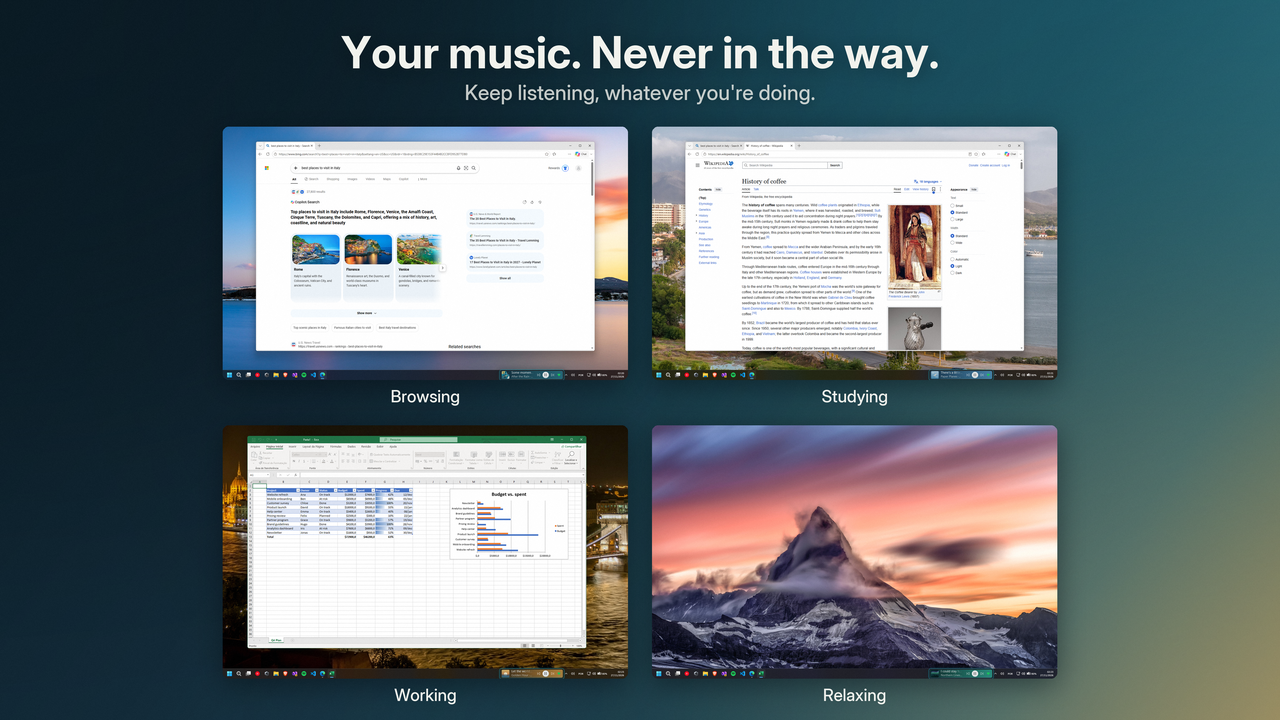
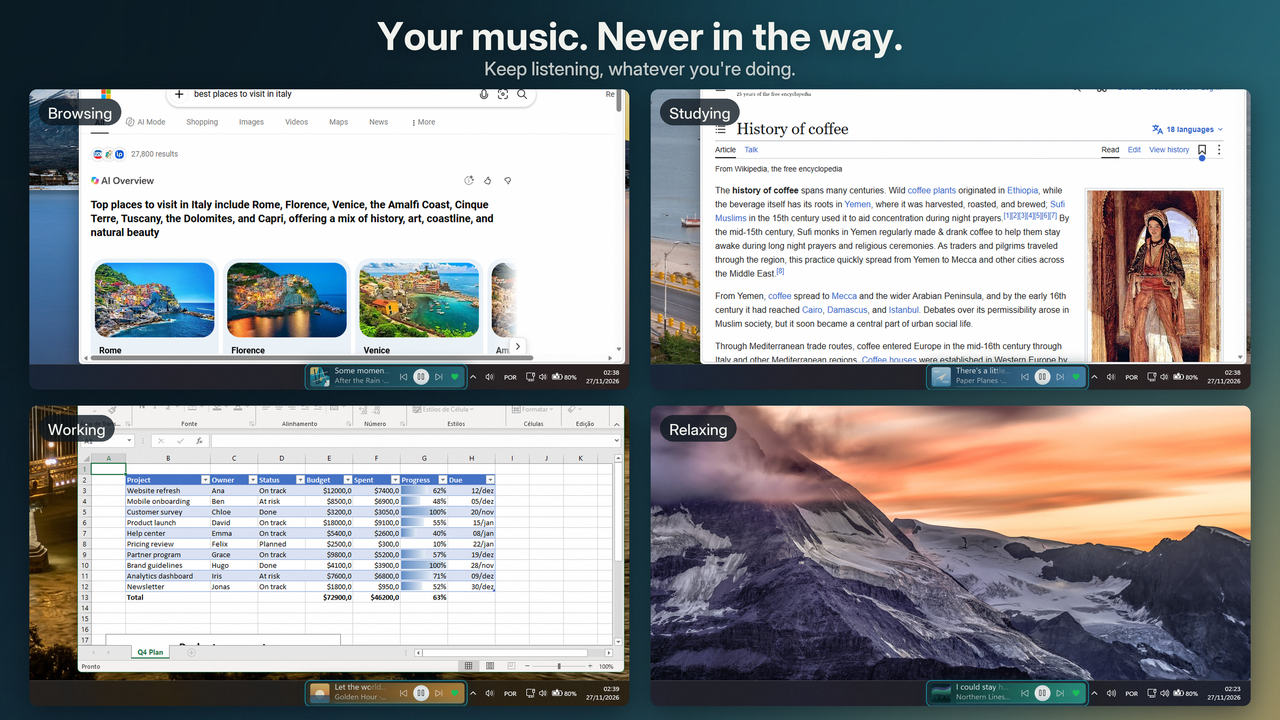
Give the player more room in Store screenshots 02 and 03

diff --git a/marketing/microsoft-store/source/compose.py b/marketing/microsoft-store/source/compose.py
@@ -153,6 +153,11 @@ def desktop(name):
     if name in ("browse-1", "study-1"):
         # The temporary Edge profile picked up the Windows account picture.
         d.ellipse((1592, 115, 1621, 144), fill=img.getpixel((1588, 129)))
+    if name in ("browse-2", "study-2"):
+        d.rectangle((1690, 566, 1800, 596), fill=img.getpixel((1684, 581)))
+    if name == "work-2":
+        d.rectangle((1120, 526, 1296, 548), fill=img.getpixel((1110, 530)))
+        d.rectangle((1588, 524, 1724, 550), fill=img.getpixel((1580, 530)))
     if name == "work-1":
         # Excel's title bar: activation notice and the account name and picture.
         d.rectangle((455, 56, 632, 80), fill=img.getpixel((640, 60)))
@@ -205,52 +210,78 @@ def art01():
     return img
 
 
+def label_pill(img, text, x, y, size=46):
+    f = font("Medium", size)
+    w = f.getlength(text)
+    pill = rounded(Image.new("RGBA", (round(w + size * 1.2), round(size * 1.75)), (12, 22, 30, 200)), round(size * .875))
+    img.alpha_composite(pill, (x, y))
+    ImageDraw.Draw(img).text((x + size * .6, y + size * .32), text, font=f, fill=CREAM + (240,))
+
+
 def art02():
     img = atmosphere(warm=.3)
-    centred_text(img, "Your music. Never in the way.", "Bold", 132, 205)
-    centred_text(img, "Keep listening, whatever you're doing.", "Medium", 62, 300, opacity=205)
-    scenes = [("browse-1", "rain", "Browsing"), ("study-1", "planes", "Studying"), ("work-1", "golden", "Working"), ("relax-1", "north", "Relaxing")]
-    sw, sh = 1216, 760
-    gap_x, gap_y = 72, 40
-    left = (W - (sw * 2 + gap_x)) // 2
-    top = 380
-    label_font = font("Medium", 50)
-    for i, (cap, song, label) in enumerate(scenes):
-        shot = dock(desktop(cap), comp(f"bar-{song}-1x"), glow_ring=True)
-        shot = rounded(scale(shot, sw / 1920), 18)
-        x = left + (i % 2) * (sw + gap_x)
-        y = top + (i // 2) * (sh + 96 + gap_y)
-        place(img, shot, (x, y), blur=40, offset=(0, 18), opacity=130)
-        f = label_font
-        ImageDraw.Draw(img).text((x + sw / 2 - f.getlength(label) / 2, y + sh + 18), label, font=f, fill=CREAM + (225,))
+    centred_text(img, "Your music. Never in the way.", "Bold", 116, 150)
+    centred_text(img, "Keep listening, whatever you're doing.", "Medium", 56, 226, opacity=205)
+    # The right part of each real screen: the app at work above, the taskbar and the player below.
+    k = 1.6
+    cw, ch = 1125, 563
+    scenes = [("browse-2", "rain", "Browsing", 795), ("study-2", "planes", "Studying", 795), ("work-2", "golden", "Working", 795), ("relax-1", "north", "Relaxing", 795)]
+    tw, th = round(cw * k), round(ch * k)
+    gap_x, gap_y = 64, 48
+    left = (W - (tw * 2 + gap_x)) // 2
+    top = 268
+    for i, (cap, song, label, cx) in enumerate(scenes):
+        shot = scale(desktop(cap).crop((cx, 1200 - ch, cx + cw, 1200)), k)
+        widget = comp(f"bar-{song}-tile")
+        wx = round((DOCK_RIGHT - cx) * k) - widget.size[0]
+        wy = round((TASKBAR_TOP - (1200 - ch)) * k)
+        shot.alpha_composite(widget, (wx, wy))
+        outline(shot, (wx + 2 * k - 7, wy + 4 * k - 7, wx + widget.size[0] - 2 * k + 7, wy + widget.size[1] - 4 * k + 7), 6 * k + 7, width=3, alpha=190, glow_alpha=130)
+        shot = rounded(shot, 22)
+        x = left + (i % 2) * (tw + gap_x)
+        y = top + (i // 2) * (th + gap_y)
+        place(img, shot, (x, y), blur=40, offset=(0, 18), opacity=140)
+        label_pill(img, label, x + 28, y + 28)
     return img
 
 
 def art03():
     img = atmosphere(warm=.15)
-    centred_text(img, "As little or as much as you want.", "Bold", 132, 215)
-    centred_text(img, "A listening experience that adapts to you.", "Medium", 62, 310, opacity=205)
-    k = 1.875
+    centred_text(img, "As little or as much as you want.", "Bold", 124, 190)
+    centred_text(img, "A listening experience that adapts to you.", "Medium", 58, 272, opacity=205)
+    # The real taskbar without its empty middle: Start, search and pinned apps, then the player,
+    # the notification area and the clock, as on a narrower screen.
+    k = 3.08
     desk = raw("desktop", "desk-clean.png")
-    rows = [("bar-full", "Lyrics & controls"), ("bar-lyrics", "Just the lyrics"), ("bar-compact", "Compact player"), ("bar-minimal", "Minimal")]
-    slice_h = 70  # a strip of the real desktop above the taskbar
-    strip = desk.crop((0, TASKBAR_TOP - slice_h, 1920, 1200))
+    cut_left, cut_right = 480, DOCK_RIGHT - 360 - 24
+    bar = desk.crop((0, TASKBAR_TOP, cut_left, 1200))
+    rest = desk.crop((cut_right, TASKBAR_TOP, 1920, 1200))
+    joined = Image.new("RGBA", (bar.size[0] + rest.size[0], 48))
+    joined.paste(bar, (0, 0))
+    joined.paste(rest, (bar.size[0], 0))
+    slice_h = 36
+    wall = desk.crop((0, TASKBAR_TOP - slice_h, joined.size[0], TASKBAR_TOP))
+    strip = Image.new("RGBA", (joined.size[0], slice_h + 48))
+    strip.paste(wall, (0, 0))
+    strip.paste(joined, (0, slice_h))
     strip = scale(strip, k)
+    dock_x = round((bar.size[0] + DOCK_RIGHT - cut_right) * k)
+    rows = [("bar-full", "Lyrics & controls"), ("bar-lyrics", "Just the lyrics"), ("bar-compact", "Compact player"), ("bar-minimal", "Minimal")]
     left = (W - strip.size[0]) // 2
-    y = 400
-    f = font("Medium", 48)
+    y = 352
+    f = font("Medium", 50)
     for name, label in rows:
-        ImageDraw.Draw(img).text((left + 8, y), label, font=f, fill=CREAM + (230,))
+        ImageDraw.Draw(img).text((left + 6, y), label, font=f, fill=CREAM + (232,))
         y += 74
         row = strip.copy()
         widget = comp(name)
-        row.alpha_composite(widget, (round(DOCK_RIGHT * k) - widget.size[0], round(slice_h * k)))
-        row = rounded(row, 22)
+        wy = round(slice_h * k)
+        row.alpha_composite(widget, (dock_x - widget.size[0], wy))
+        x = dock_x - widget.size[0]
+        outline(row, (x + 2 * k - 7, wy + 4 * k - 7, x + widget.size[0] - 2 * k + 7, wy + widget.size[1] - 4 * k + 7), 6 * k + 7, width=3, alpha=170, glow_alpha=110)
+        row = rounded(row, 24)
         place(img, row, (left, y), blur=36, offset=(0, 14), opacity=140)
-        x = left + round(DOCK_RIGHT * k) - widget.size[0]
-        wy = y + round(slice_h * k)
-        outline(img, (x + 2 * k - 6, wy + 4 * k - 6, x + widget.size[0] - 2 * k + 6, wy + widget.size[1] - 4 * k + 6), 6 * k + 6, alpha=150, glow_alpha=90)
-        y += row.size[1] + 52
+        y += row.size[1] + 40
     return img
 
 

diff --git a/marketing/microsoft-store/source/Campaign.cs b/marketing/microsoft-store/source/Campaign.cs
@@ -39,6 +39,9 @@ internal static partial class Program
 
     static string _comp = "";
 
+    /// <summary>Scale of the desktop crops in 02.</summary>
+    const double Tile = 1.6;
+
     static void Campaign(string root)
     {
         _out = Path.Combine(root, "marketing", "microsoft-store");
@@ -68,9 +71,12 @@ internal static partial class Program
 
         // Taskbar players at 1x, for the real desktop captures (02).
         foreach (var key in new[] { "rain", "echo", "planes", "golden", "north" })
+        {
             Widget(songs[key], full, 1, $"bar-{key}-1x");
+            Widget(songs[key], full, Tile, $"bar-{key}-tile");
+        }
         // The four configurations at the strip scale (03).
-        const double strip = 1.875;
+        const double strip = 3.08; // the taskbar without its empty middle (03)
         Widget(songs["rain"], Copy(full, 360), strip, "bar-full");
         Widget(songs["rain"], lyricsOnly, strip, "bar-lyrics");
         Widget(songs["rain"], compact, strip, "bar-compact", paused: true);

diff --git a/marketing/microsoft-store/SOURCES.md b/marketing/microsoft-store/SOURCES.md
@@ -19,6 +19,7 @@ Account pictures, the account name and Excel's activation notice are covered in 
 - `browse-1.png`: Microsoft Edge, Bing search "best places to visit in Italy". The search results show third-party thumbnails at small size.
 - `study-1.png`: Microsoft Edge, Wikipedia article "History of coffee" (text CC BY-SA 4.0; the painting *The Coffee Bearer*, 1857, is public domain).
 - `work-1.png`: Microsoft Excel with a fictional project budget (names and figures invented).
+- `browse-2.png`, `study-2.png`, `work-2.png`: the same pages and sheet with the window in the lower-right corner, used for 02.
 - `relax-1.png`, `desk-fuji.png`, `desk-clean.png`: the desktop and taskbar.
 
 The Windows UI on this PC is in Portuguese (taskbar language indicator, date format, Excel ribbon); web pages are in English.
